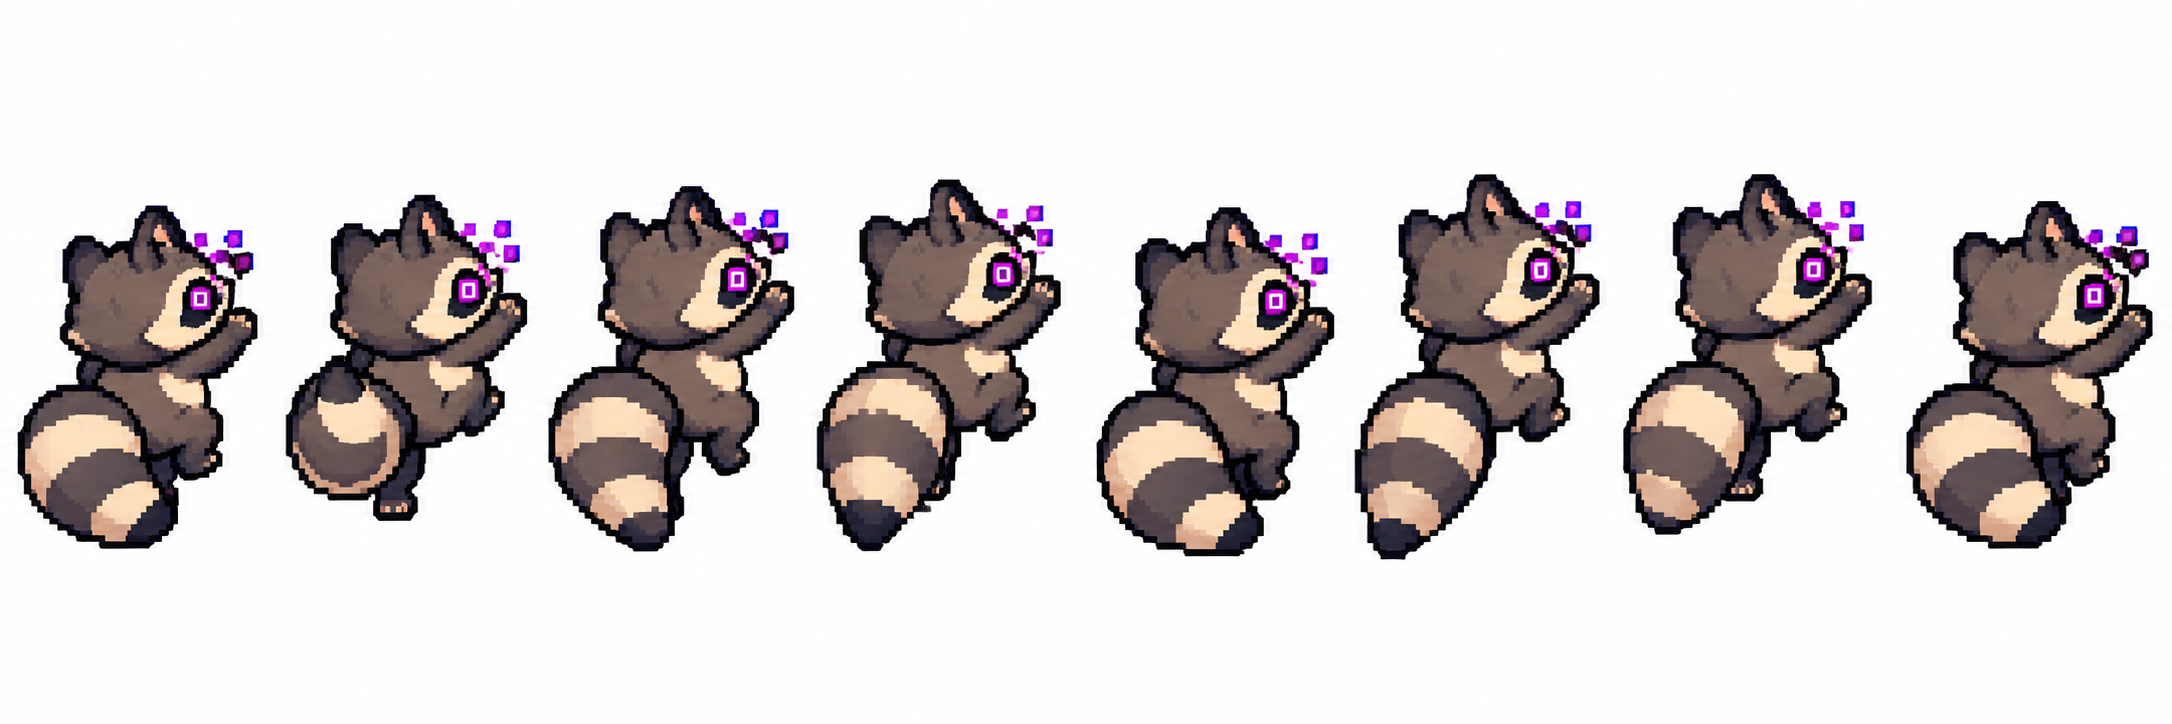
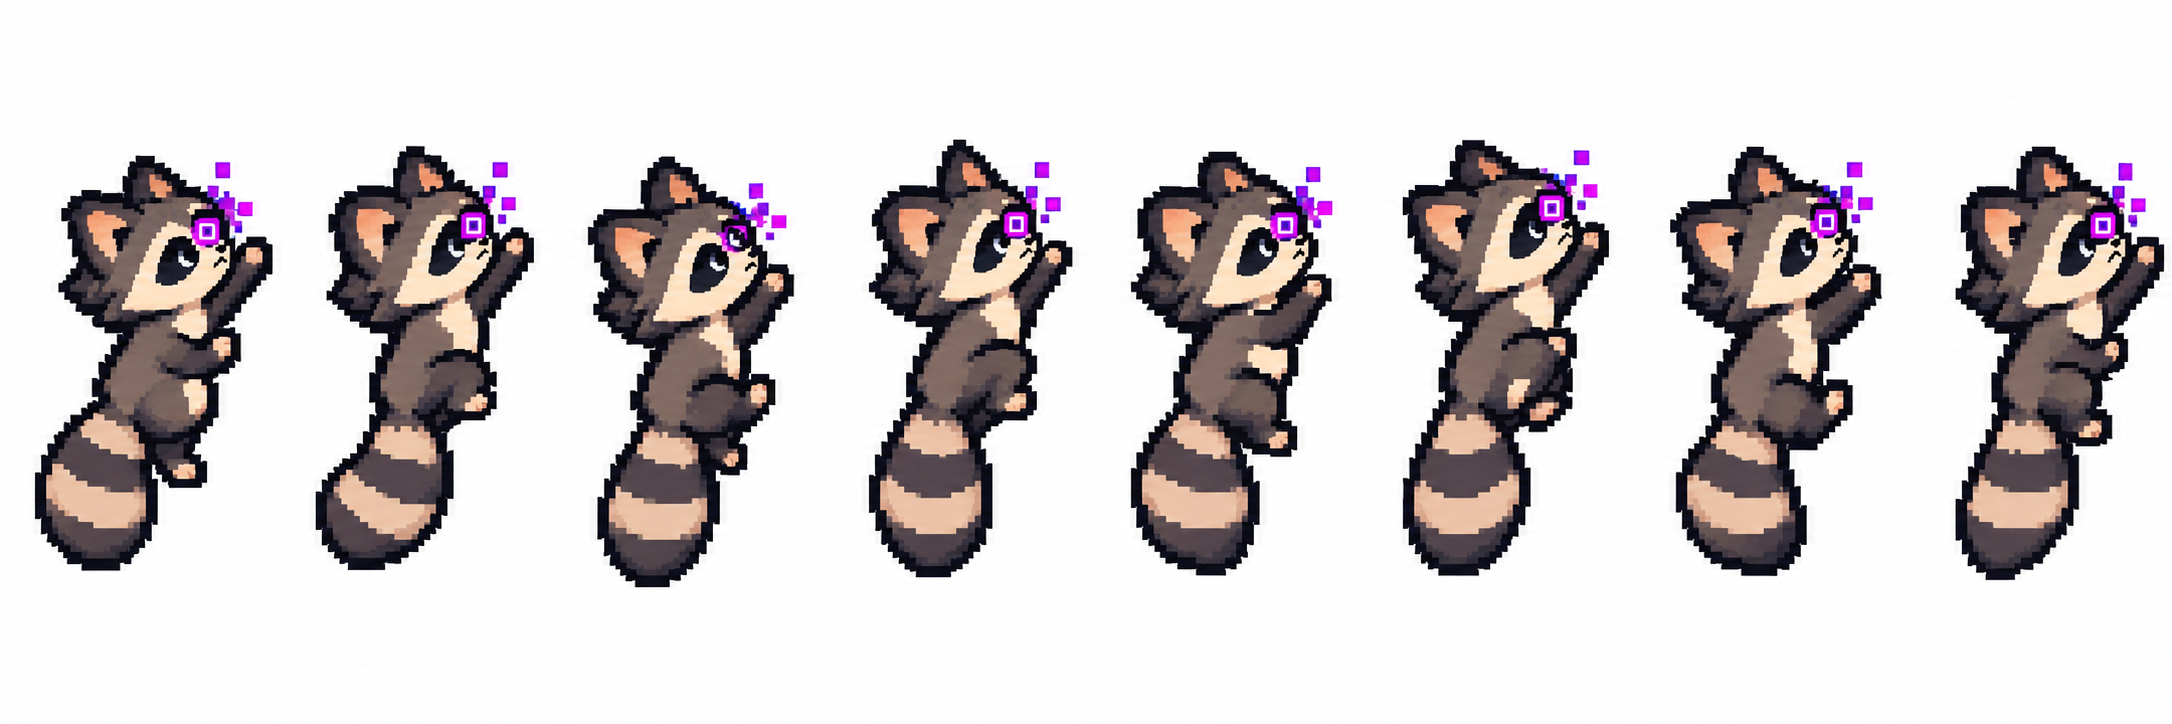
New walk (glitch eye in every frame, 3 px bob instead of 6, steady x) and the side-view wall crawl for climb, cling and lookBack
- climb.png is drawn climbing a wall on his right; slicing turns it onto the
  floor (the app turns him back onto the wall), checked in dev/stage.html.
- walk-v1.png kept for reference; v2 picked (less bob, no eye flicker).

Changed region(s): [[0.0, 0.1823, 1.0, 0.8204]]

diff --git a/src/mascot/animations.ts b/src/mascot/animations.ts
@@ -425,35 +425,30 @@ function startledKeys(): Keyframe[] {
 
 /** Holding on to a wall or the ceiling: pressed flat, breathing, glancing back. */
 function clingKeys(rand: () => number): Keyframe[] {
+  // Holding on (the drawn wall crawl, paused): breathing, shifting the grip, glancing back.
   const keys: Keyframe[] = [];
   const until = 5000 + rand() * 8000;
   let t = 0;
   while (t < until) {
     const rest = 2000 + rand() * 1800;
-    keys.push(k("walk0", rest, { sy: 0.97 }));
+    keys.push(k("climb0", rest));
     t += rest;
     const r = rand();
     const extra =
       r < 0.3
-        ? [k("side", 900 + rand() * 700, { flip: true, sy: 0.98 })] // over the shoulder
+        ? [k("climb7", 900 + rand() * 700), k("climb7", 60, { glitch: 0.25, fx: "eye" })] // a pause, the eye flickers
         : r < 0.5
-          ? [k("walk1", 140, { sy: 0.95, dx: 2 }), k("walk0", 160, { sy: 0.96, dx: 1 })] // shift the grip
-          : [k("walk0", 650, { sy: 0.995, dy: -1 })]; // breathe
+          ? [k("climb1", 140), k("climb2", 160)] // shift the grip
+          : [k("climb7", 650)]; // breathe
     keys.push(...extra);
     t += sum(extra);
   }
-  return [...keys, ...burst(rand, { frame: "walk0", sy: 0.97 })];
+  return [...keys, ...burst(rand, { frame: "climb0" })];
 }
 
-/** Climbing (walls) and crawling (ceiling): a slower, flatter gait than walking. */
+/** Climbing (walls) and crawling (ceiling): the drawn 8-frame wall crawl, alternating paws, ~10 fps. */
 function climbKeys(rand: () => number): Keyframe[] {
-  const reach = (o: Omit<Keyframe, "frame" | "ms"> = {}) => [
-    k("walk0", 80, { sx: 1.05, sy: 0.93, ...o }),
-    k("walk0", 80, { dy: -1, sy: 0.96, ...o }),
-    k("walk1", 80, { dy: -3, sx: 0.96, sy: 1.04, rot: 3, ...o }),
-    k("walk1", 80, { dy: -2, sy: 1.0, rot: 1, ...o }),
-  ];
-  const keys = [...reach(), ...reach({ dx: 1 })];
+  const keys = cycle("climb", [0, 1, 2, 3, 4, 5, 6, 7], 100);
   if (rand() < 0.25) keys[6] = { ...keys[6], glitch: 0.35, fx: "eye" };
   return keys;
 }
@@ -567,7 +562,7 @@ function lookAroundKeys(rand: () => number): Keyframe[] {
 }
 
 /** On a wall: stop and look back down at where he came from. */
-const LOOK_BACK: Keyframe[] = [k("walk0", 200, { sy: 0.97 }), k("side", 1000, { flip: true }), k("side", 60, { flip: true, glitch: 0.3, fx: "eye" }), k("walk0", 300, { sy: 0.97 })];
+const LOOK_BACK: Keyframe[] = [k("climb0", 300), k("climb7", 900), k("climb7", 60, { glitch: 0.3, fx: "eye" }), k("climb0", 300)];
 
 /** Conjuring a platform out of glitch pixels. */
 function buildKeys(rand: () => number): Keyframe[] {

diff --git a/src/sprites/anim.ts b/src/sprites/anim.ts
@@ -292,14 +292,14 @@ export const ANIM_EYES: Record<string, [number, number]> = {
   wave5: [67, 60],
   wave6: [68, 57],
   wave7: [64, 58],
-  walk0: [74, 59],
-  walk1: [74, 57],
-  walk2: [74, 56],
-  walk3: [72, 51],
-  walk4: [74, 57],
-  walk5: [73, 59],
-  walk6: [75, 53],
-  walk7: [73, 57],
+  walk0: [73, 58],
+  walk1: [73, 60],
+  walk2: [72, 57],
+  walk3: [73, 56],
+  walk4: [73, 57],
+  walk5: [74, 60],
+  walk6: [72, 59],
+  walk7: [73, 56],
   run0: [83, 68],
   run1: [84, 65],
   run2: [82, 65],
@@ -346,14 +346,14 @@ export const ANIM_EYES: Record<string, [number, number]> = {
   dangle5: [66, 54],
   dangle6: [68, 54],
   dangle7: [63, 53],
-  climb0: [63, 13],
-  climb1: [65, 18],
-  climb2: [65, 7],
-  climb3: [69, 7],
-  climb4: [64, 13],
-  climb5: [64, 4],
-  climb6: [64, 10],
-  climb7: [62, 14],
+  climb0: [74, 80],
+  climb1: [72, 80],
+  climb2: [75, 83],
+  climb3: [74, 83],
+  climb4: [74, 85],
+  climb5: [76, 82],
+  climb6: [75, 81],
+  climb7: [73, 81],
   laugh0: [68, 58],
   laugh1: [68, 56],
   laugh2: [69, 59],

diff --git a/scripts/slice-generated.py b/scripts/slice-generated.py
@@ -282,7 +282,7 @@ def process(name: str, cfg: dict, report: dict) -> list[np.ndarray]:
         ys = np.where(part[:, :, 3].any(1))[0]
         crops.append(part[ys.min() : ys.max() + 1])
     # The art's grid: block pitch from the whole sheet, then half a block per art px.
-    pitch, _, _ = best_pitch(np.concatenate([np.pad(c, ((0, 400 - c.shape[0] if c.shape[0] < 400 else 0), (0, 0), (0, 0))) for c in crops], 1)[:400], 5.0, 11.0)
+    pitch, _, _ = best_pitch(np.concatenate([np.pad(c[:400], ((0, 400 - min(400, c.shape[0])), (0, 0), (0, 0))) for c in crops], 1), 5.0, 11.0)
     cell = pitch / 2
     # Normalise to the original character's size: the reference frame's height in art px.
     ref = crops[cfg.get("ref", 0)]
@@ -301,7 +301,11 @@ def process(name: str, cfg: dict, report: dict) -> list[np.ndarray]:
         frames.append(art)
     # The glitch eye is on his right eye: in our convention it shows on the
     # right of the picture. Mirror the whole sheet if most frames have it left.
-    if votes < 0:
+    if cfg.get("rotate"):
+        # Drawn climbing a wall on his right: turn the wall into the floor (the
+        # app turns him onto the wall itself), climbing up becomes walking right.
+        frames = [np.rot90(f, cfg["rotate"]).copy() for f in frames]
+    elif votes < 0:
         frames = [f[:, ::-1].copy() for f in frames]
     # Body centred; `shift` moves a whole sheet (e.g. the long run tail must fit the canvas).
     anchors = [body_x(f, "left") - cfg.get("shift", 0) for f in frames]
@@ -340,6 +344,8 @@ for _name in ["think", "sleep", "wake", "dangle", "climb", "laugh", "sad", "angr
               "peek", "push", "spin", "teleport", "listen", "celebrate", "dance", "eat", "grab_tab",
               "dizzy", "sneeze", "typing", "point", "land", "sit"]:
     SHEETS[_name] = {"cell": 3.8}
+# The wall crawl, rotated onto the floor; a bit smaller so the long body + tail fits the canvas.
+SHEETS["climb"] = {"cell": 4.9, "rotate": -1, "shift": 6}
 
 
 def main():
